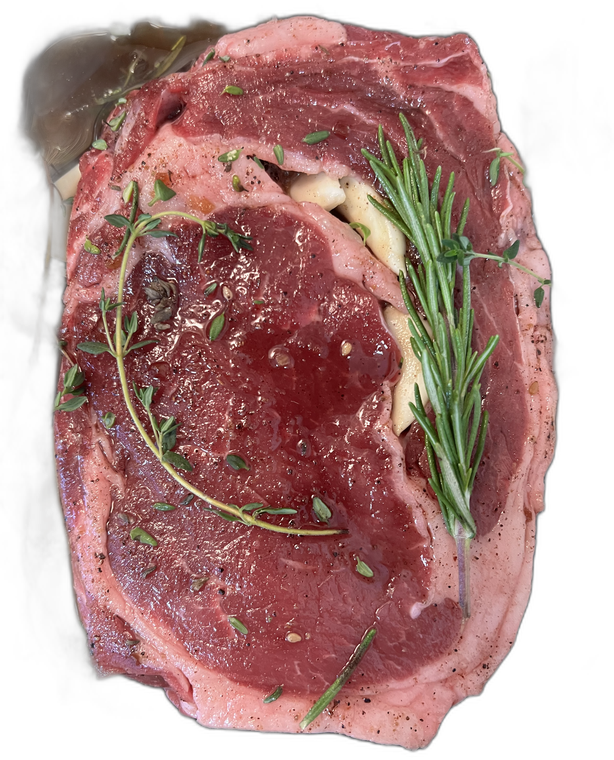
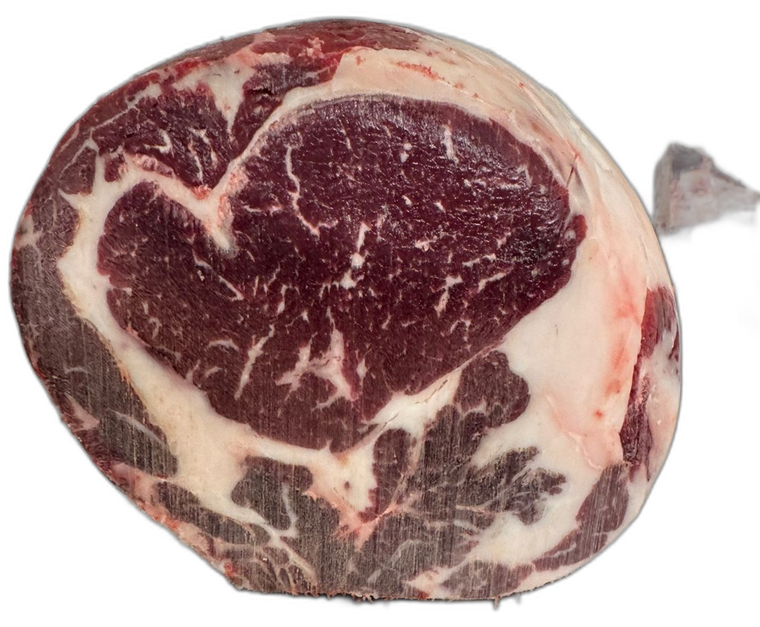
feat: fotos reales rib eye + diezmillo; quita 'propios'; aclara 'cortes finos'

diff --git a/index.html b/index.html
@@ -39,7 +39,7 @@
     <img src="assets/logo-pedmun.jpeg" alt="PEDMUN Carnicería — La carne de tu confianza" class="hero__logo" />
     <p class="hero__eyebrow">Carnicería premium · Cadereyta de Montes, Querétaro · Desde 2024</p>
     <h1 class="hero__title">Calidad que <span class="shimmer">se nota.</span></h1>
-    <p class="hero__sub">Res, cortes finos y cerdo — de nuestros propios corrales a tu mesa. Frescura, marmoleo y servicio de confianza, con entrega a domicilio.</p>
+    <p class="hero__sub">Res, cortes finos y cerdo — de nuestros corrales a tu mesa. Frescura, marmoleo y servicio de confianza, con entrega a domicilio.</p>
     <div class="hero__cta">
       <a class="btn btn--red" href="https://wa.me/524412159663?text=Hola%20PEDMUN%2C%20quiero%20pedir%20a%20domicilio" target="_blank" rel="noopener"><span class="ico-wa" aria-hidden="true"></span> Pedir a domicilio</a>
       <a class="btn btn--gold" href="https://wa.me/524412491577?text=Hola%20PEDMUN%2C%20quiero%20cotizar%20al%20mayoreo" target="_blank" rel="noopener">Cotizar mayoreo →</a>
@@ -51,8 +51,8 @@
 <!-- ====== TRUST BAR ====== -->
 <section class="trust" id="confianza" aria-label="Por qué PEDMUN">
   <ul class="trust__list">
-    <li class="reveal"><span class="trust__ico">🐂</span><strong>Corrales propios</strong><em>Calidad desde el origen</em></li>
-    <li class="reveal"><span class="trust__ico">🥩</span><strong>Res, finos y cerdo</strong><em>Siempre fresco</em></li>
+    <li class="reveal"><span class="trust__ico">🐂</span><strong>Nuestros corrales</strong><em>Calidad desde el origen</em></li>
+    <li class="reveal"><span class="trust__ico">🥩</span><strong>Res, cortes finos y cerdo</strong><em>Siempre fresco</em></li>
     <li class="reveal"><span class="trust__ico">🚚</span><strong>Domicilio gratis*</strong><em>En la cabecera municipal</em></li>
     <li class="reveal"><span class="trust__ico">🍽️</span><strong>Mayoreo</strong><em>Restaurantes y negocios</em></li>
   </ul>
@@ -112,7 +112,7 @@
     <div class="origen__text reveal">
       <p class="kicker">Del corral a tu mesa</p>
       <h2 class="h2">Cuidamos la calidad <span class="shimmer">desde el origen</span></h2>
-      <p class="lead">No solo vendemos carne: la criamos. Desde nuestros propios corrales seleccionamos el ganado, cuidamos el proceso y cortamos a tu gusto. Esa es la diferencia que se nota en el sabor.</p>
+      <p class="lead">No solo vendemos carne: la elegimos. Desde nuestros corrales seleccionamos el ganado, cuidamos el proceso y cortamos a tu gusto. Esa es la diferencia que se nota en el sabor.</p>
       <ul class="origen__steps">
         <li><strong>01 · Origen</strong> Ganado seleccionado de nuestros corrales.</li>
         <li><strong>02 · Proceso</strong> Corte cuidado, marmoleo y frescura garantizada.</li>
@@ -225,7 +225,7 @@
       <p>Pedidos y domicilio: <a href="tel:[phone redacted]">[phone redacted]</a><br>Mayoreo: <a href="tel:[phone redacted]">[phone redacted]</a></p>
     </div>
   </div>
-  <p class="footer__credits">Algunas fotos de cortes provienen de bancos de uso libre (Wikimedia Commons · Flickr CC BY: arnold|inuyaki, StuartWebster, whitneyinchicago) — provisionales hasta contar con fotografía propia.</p>
+  <p class="footer__credits">Algunas fotos de cortes provienen de bancos de uso libre (Wikimedia Commons · Flickr CC BY: arnold|inuyaki, StuartWebster) — provisionales hasta contar con fotografía propia.</p>
   <p class="footer__copy">© <span id="year">2026</span> PEDMUN Carnicería · Cadereyta de Montes, Querétaro · Desde 2024</p>
 </footer>
 